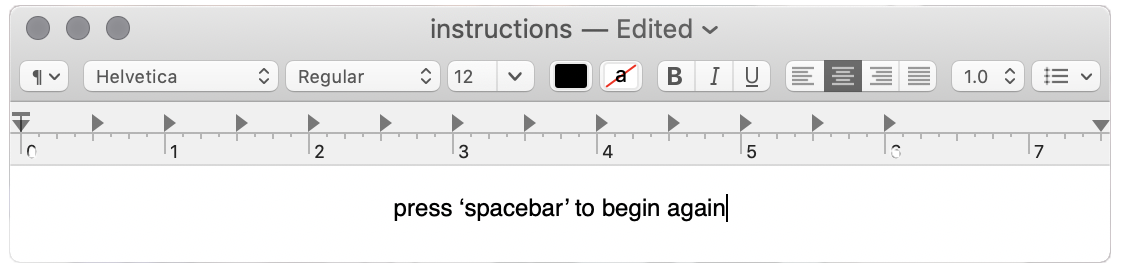
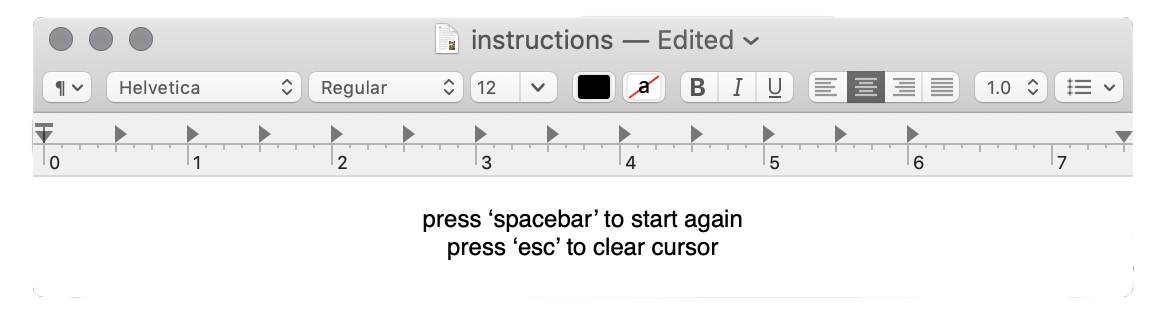
added center message.

diff --git a/js/tinder.js b/js/tinder.js
@@ -333,10 +333,9 @@ function preload(){
 
 	bg = loadImage("images2/pinkbg.png");
 	tinder = loadImage("images2/tindertemplate.png");
-  // //instructions
-  // instructions = createImg("images2/instructions.png", "instructions that read press spacebar to clear")
-  // instructions.position(1292,6);
-	// instructions.size(370, 90);
+
+  //instructions
+  instructions = loadImage("images2/instructions.png", "instructions that read press spacebar to clear")
 
 //main images
   eye1 = loadImage("images/eyes/eye1.png");
@@ -2869,7 +2868,9 @@ function draw(){
 	background(bg, windowWidth, windowHeight);
 	imageMode(CENTER);
 	image(tinder, 820, 446, 1242/2.5, 2208/2.5);
+	image(instructions, 820, 386, 1168/3, 314/3);
 
+print(instructions)
   // eye1
 	if(brusheye1 == true){
 	 image(eye1mouse, mouseX, mouseY);
